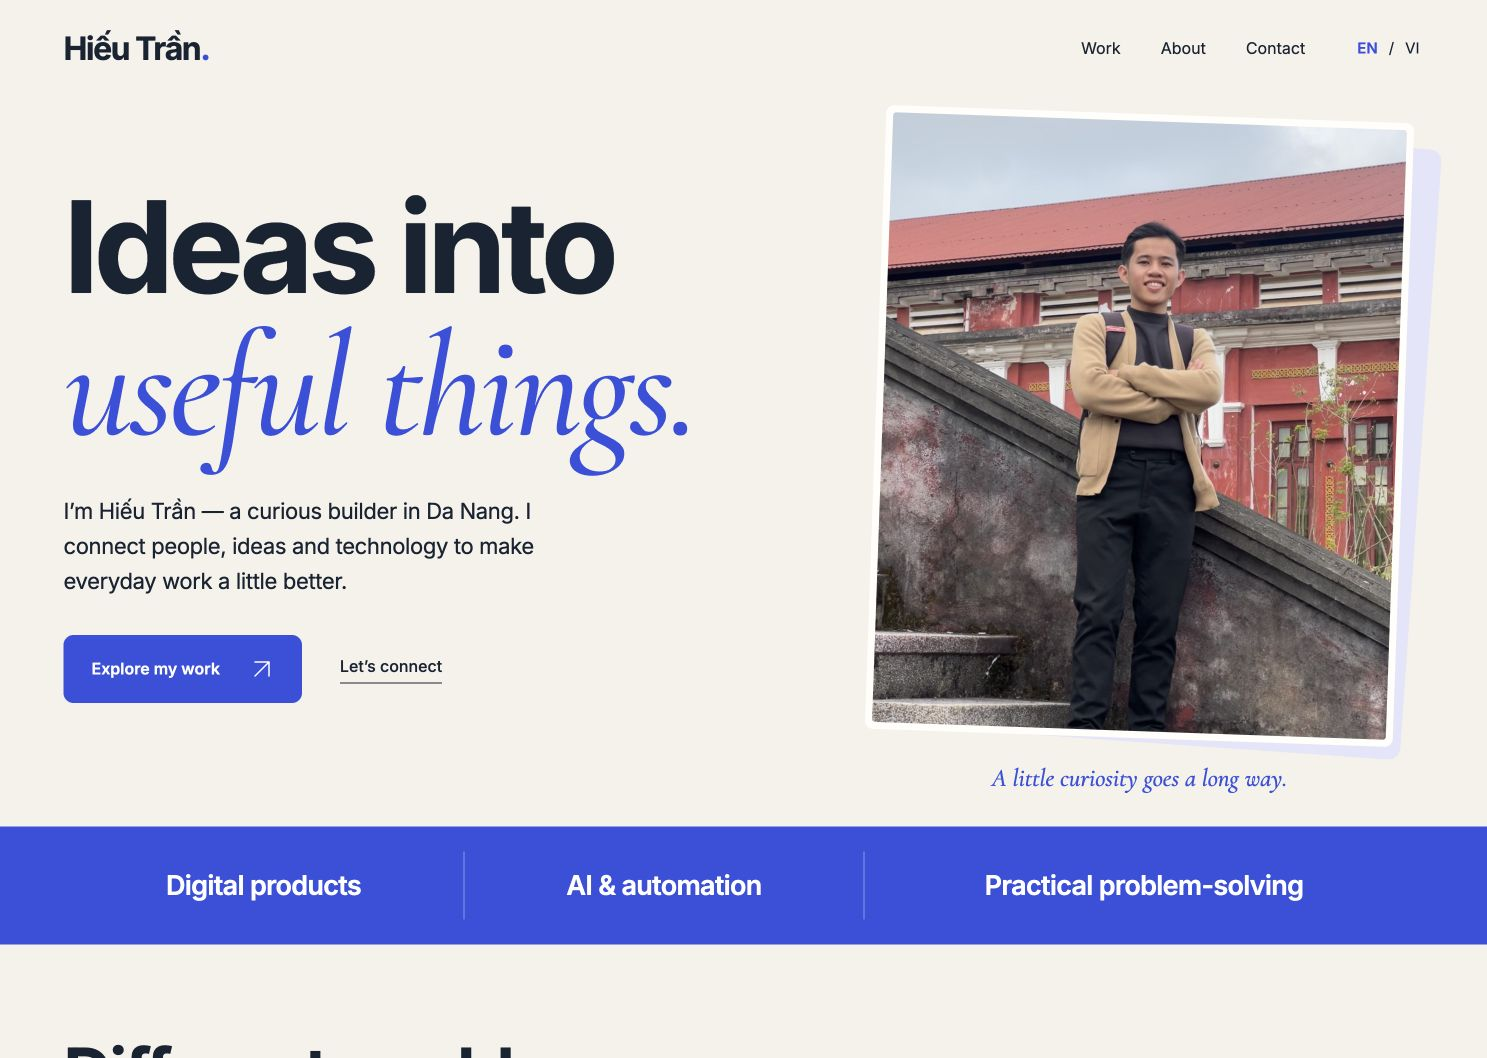
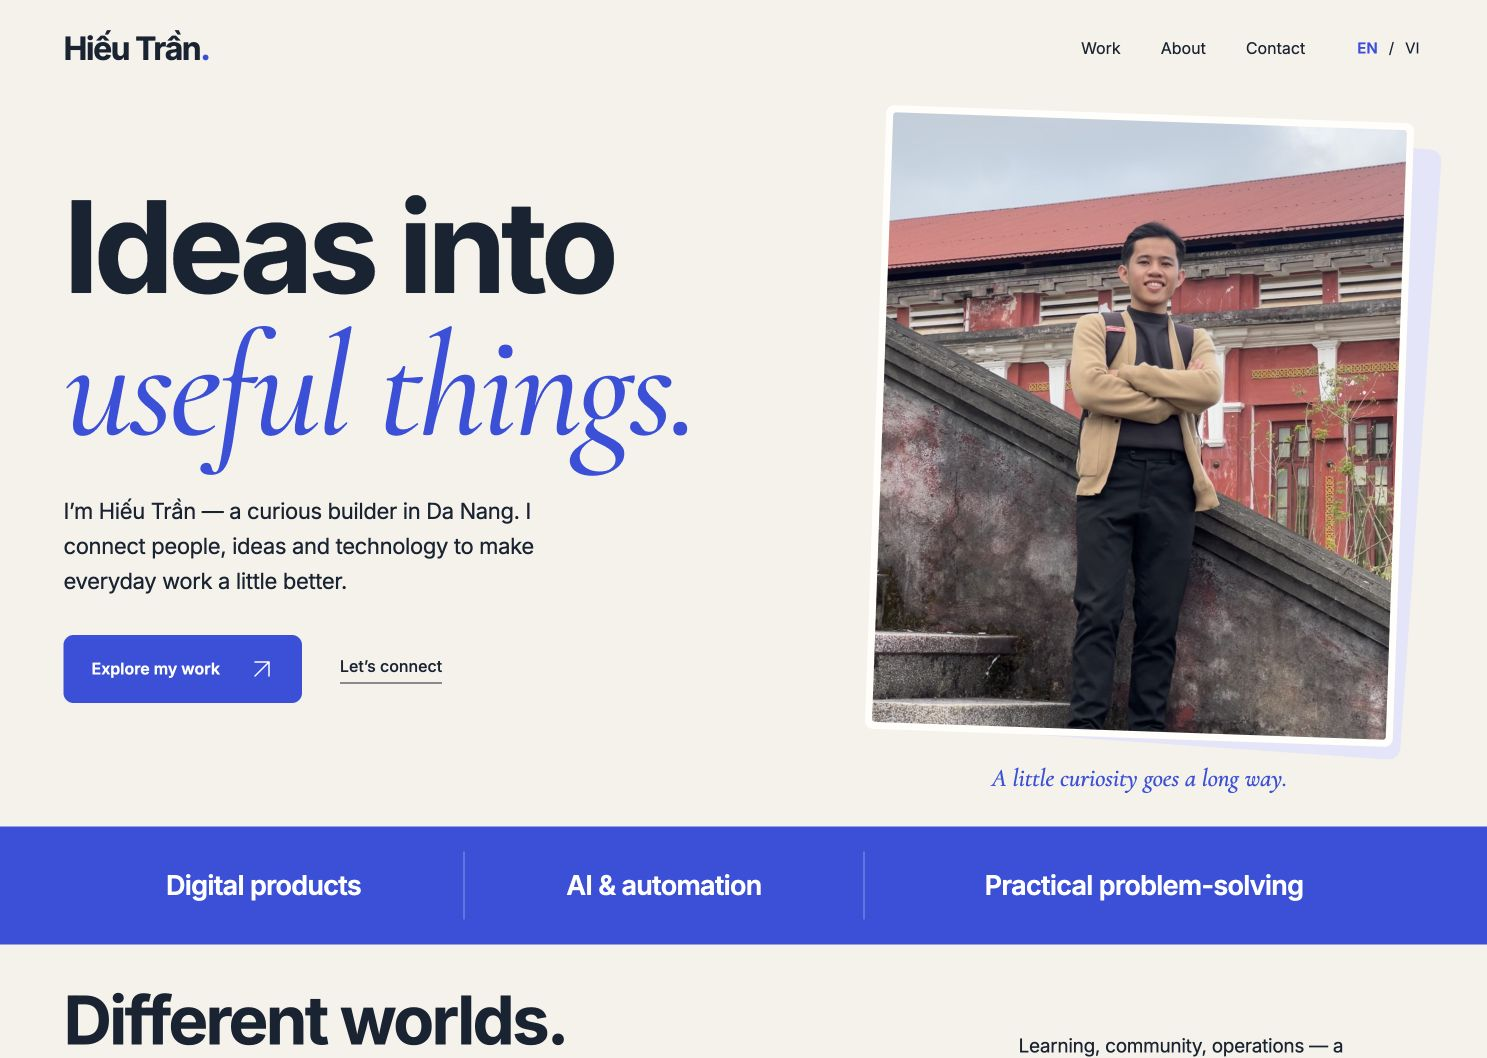
Refine project spacing and final social preview

Changed region(s): [[0.0309, 0.9357, 0.3712, 1.0], [0.6806, 0.9669, 0.8971, 0.9981]]

diff --git a/docs/assets/index-Efe_H-x0.css b/docs/assets/index-Efe_H-x0.css
@@ -1,0 +1,1 @@
+@font-face{font-family:Inter;font-style:normal;font-display:swap;font-weight:400;src:url(/assets/inter-latin-400-normal-C38fXH4l.woff2) format("woff2"),url(/assets/inter-latin-400-normal-CyCys3Eg.woff) format("woff")}@font-face{font-family:Inter;font-style:normal;font-display:swap;font-weight:500;src:url(/assets/inter-latin-500-normal-Cerq10X2.woff2) format("woff2"),url(/assets/inter-latin-500-normal-BL9OpVg8.woff) format("woff")}@font-face{font-family:Inter;font-style:normal;font-display:swap;font-weight:600;src:url(/assets/inter-latin-600-normal-LgqL8muc.woff2) format("woff2"),url(/assets/inter-latin-600-normal-CiBQ2DWP.woff) format("woff")}@font-face{font-family:Inter;font-style:normal;font-display:swap;font-weight:700;src:url(/assets/inter-latin-700-normal-Yt3aPRUw.woff2) format("woff2"),url(/assets/inter-latin-700-normal-BLAVimhd.woff) format("woff")}@font-face{font-family:Inter;font-style:normal;font-display:swap;font-weight:400;src:url(/assets/inter-vietnamese-400-normal-DMkecbls.woff2) format("woff2"),url(/assets/inter-vietnamese-400-normal-Bbgyi5SW.woff) format("woff")}@font-face{font-family:Inter;font-style:normal;font-display:swap;font-weight:500;src:url(/assets/inter-vietnamese-500-normal-DOriooB6.woff2) format("woff2"),url(/assets/inter-vietnamese-500-normal-mJboJaSs.woff) format("woff")}@font-face{font-family:Inter;font-style:normal;font-display:swap;font-weight:600;src:url(/assets/inter-vietnamese-600-normal-Cc8MFFhd.woff2) format("woff2"),url(/assets/inter-vietnamese-600-normal-BuLX-rYi.woff) format("woff")}@font-face{font-family:Inter;font-style:normal;font-display:swap;font-weight:700;src:url(/assets/inter-vietnamese-700-normal-DlLaEgI2.woff2) format("woff2"),url(/assets/inter-vietnamese-700-normal-BZaoP0fm.woff) format("woff")}@font-face{font-family:Cormorant Garamond;font-style:italic;font-display:swap;font-weight:500;src:url(/assets/cormorant-garamond-latin-500-italic-Y14P-dkT.woff2) format("woff2"),url(/assets/cormorant-garamond-latin-500-italic-DhNIfkTX.woff) format("woff")}@font-face{font-family:Cormorant Garamond;font-style:italic;font-display:swap;font-weight:500;src:url(/assets/cormorant-garamond-vietnamese-500-italic-D3igDnAQ.woff2) format("woff2"),url(/assets/cormorant-garamond-vietnamese-500-italic-C-296ow0.woff) format("woff")}:root{--paper:#f5f2eb;--ink:#182332;--blue:#3451df;--lavender:#e3e5fa;--peach:#edc7b1;--muted:#526071;--line:#cfd0d4;--serif:"Cormorant Garamond",Georgia,serif;font-family:Inter,Arial,sans-serif;color:var(--ink);background:var(--paper);font-synthesis:none}*{box-sizing:border-box}html{scroll-behavior:smooth;scroll-padding-top:32px}body{margin:0}a{color:inherit;text-decoration:none}button{font:inherit;color:inherit;cursor:pointer}a,button{touch-action:manipulation;-webkit-tap-highlight-color:transparent}a:focus-visible,button:focus-visible{outline:3px solid var(--blue);outline-offset:6px}button:focus-visible,.button:focus-visible{outline-offset:4px}.contact-section :focus-visible{outline-color:#fff}img{display:block;max-width:100%}h1,h2,h3,h4,p,figure{margin:0}em{font-family:var(--serif);font-weight:500}::selection{background:var(--lavender);color:var(--ink)}.wrap{width:min(1360px,calc(100% - 96px));margin-inline:auto}.svg-library{position:absolute;width:0;height:0;overflow:hidden}.arrow{width:24px;height:24px;fill:none;stroke:currentColor;stroke-width:1.5;stroke-linecap:round;stroke-linejoin:round;flex-shrink:0;transition:transform .25s}.sr-only{position:absolute;width:1px;height:1px;padding:0;overflow:hidden;clip:rect(0,0,0,0);white-space:nowrap;border:0}.skip-link{position:absolute;top:8px;left:8px;background:var(--ink);color:#fff;padding:14px 20px;z-index:20;transform:translateY(-160%)}.skip-link:focus{transform:none}.site-header{display:flex;align-items:center;gap:48px;height:104px}.wordmark{font-size:32px;font-weight:700;letter-spacing:-1.5px;white-space:nowrap}.wordmark span{color:var(--blue)}.site-header nav{display:flex;gap:40px;margin-left:auto;font-size:16px}.site-header nav a{padding-block:12px}.site-header nav a:hover,.site-footer a:hover{color:var(--blue)}.languages{display:flex;align-items:center;gap:7px;font-size:15px}.languages button{border:0;background:none;padding:12px 4px}.languages button[aria-pressed=true]{color:var(--blue);font-weight:600}.hero{display:grid;grid-template-columns:minmax(0,1.35fr) minmax(0,1fr);gap:72px;align-items:center;padding-top:30px;padding-bottom:46px}.hero-copy{padding-bottom:24px}h1{font-size:clamp(72px,7.5vw,114px);line-height:1.03;font-weight:700;letter-spacing:-5.5px}h1>span,h1>em{display:block}h1 em{color:var(--blue);font-size:1.2em;line-height:.92;letter-spacing:-4.5px;margin-top:6px;white-space:nowrap}.hero-intro{font-size:20px;line-height:1.65;max-width:540px;margin-top:38px;letter-spacing:-.35px}.hero-actions{display:flex;align-items:center;gap:38px;margin-top:36px}.button{display:inline-flex;justify-content:center;align-items:center;gap:30px;font-size:16px;font-weight:600;padding:21px 27px;min-height:62px;border:1px solid transparent;border-radius:10px;transition:transform .25s,background .25s}.button-primary{background:var(--blue);color:#fff}.button-primary:hover{background:#273cb2;transform:translateY(-3px)}.button:hover .arrow,.text-link:hover .arrow,.project-row:hover .arrow{transform:translate(3px,-3px)}.text-link{display:inline-flex;align-items:center;gap:16px;font-size:16px;font-weight:500;border:0;border-bottom:1px solid currentColor;padding:0 0 4px;background:none;line-height:1.5}.text-link:hover{color:var(--blue)}.portrait{position:relative;margin-right:20px}.portrait:before{content:"";position:absolute;inset:17px -18px 52px 15px;background:var(--lavender);border-radius:12px;transform:rotate(4deg)}.portrait-frame{position:relative;padding:7px;background:#fffefa;border-radius:8px;transform:rotate(2deg);transition:transform .45s}.portrait:hover .portrait-frame{transform:rotate(0)}.portrait img{width:100%;height:clamp(470px,42.5vw,620px);object-fit:cover;object-position:center 36%;border-radius:3px}.portrait figcaption{position:relative;font-family:var(--serif);font-style:italic;font-size:25px;color:var(--blue);text-align:center;line-height:1.3;margin-top:24px}.capability-band{background:var(--blue);color:#fff}.capability-band>.wrap{display:grid;grid-template-columns:1fr 1fr 1.4fr;align-items:stretch;padding-block:25px}.capability-band span{font-size:clamp(17px,1.85vw,27px);font-weight:600;letter-spacing:-.7px;text-align:center;padding:15px 25px;display:flex;align-items:center;justify-content:center;line-height:1.4}.capability-band span+span{border-left:1px solid #ffffff69}.work-section{padding-block:92px 0}.section-heading{display:flex;align-items:center;justify-content:space-between;gap:64px;margin-bottom:35px}.section-heading h2{font-size:clamp(40px,4.6vw,67px);font-weight:700;line-height:1.06;letter-spacing:-2.7px}.section-heading h2>span,.section-heading h2>em{display:block}.section-heading h2 em{font-size:1.23em;line-height:1;color:var(--blue);letter-spacing:-1.8px}.section-heading>p{max-width:405px;font-size:19px;line-height:1.6;letter-spacing:-.3px}.featured-projects{display:grid;grid-template-columns:1.32fr 1fr;gap:24px}.project-feature{border-radius:24px;padding:26px;overflow:hidden;display:flex;flex-direction:column;min-width:0}.sign-feature{background:var(--lavender)}.project-image{display:block;border-radius:15px;overflow:hidden;background:#f6f6fd;box-shadow:0 8px 26px #18233208}.project-image img{width:100%;height:auto;transition:transform .4s}.project-image:hover img{transform:scale(1.015)}.feature-copy{padding-top:24px;margin-top:auto}.feature-copy h3{font-size:27px;letter-spacing:-1px;font-weight:700}.feature-copy>p{font-size:15px;line-height:1.65;margin-top:6px}.feature-footer{display:flex;align-items:center;justify-content:space-between;gap:18px;margin-top:19px}.project-kind{font-size:10px;font-weight:500;letter-spacing:.35px;text-transform:uppercase;color:var(--blue)}.feature-footer .text-link{border:0;font-size:14px;gap:11px;color:var(--blue);padding:0;white-space:nowrap}.feature-footer .arrow{width:21px;height:21px}.roberp-feature{background:var(--ink);color:#fffefa}.roberp-feature .project-kind,.roberp-feature .text-link{color:var(--peach)}.roberp-feature .text-link:hover{color:#fff}.purpose-map{display:flex;flex-direction:column;justify-content:space-evenly;gap:28px;min-height:290px;height:100%;padding:12px 24px 32px;color:var(--peach)}.purpose-map>div{display:flex;align-items:center;gap:22px;position:relative;font-size:clamp(22px,2.1vw,31px);font-weight:600;letter-spacing:-.7px;line-height:1.3}.purpose-map>div>span:first-child{min-width:145px}.map-line{height:1px;background:currentColor;flex:1;position:relative}.map-node{border:1.5px solid currentColor;width:18px;height:18px;border-radius:50%;flex-shrink:0;position:relative}.purpose-map>div:not(:last-child) .map-node:after{content:"";position:absolute;left:7px;top:22px;height:62px;border-left:1px dashed #edc7b170}.project-list{margin-top:24px}.project-row{display:grid;grid-template-columns:1.1fr 1.6fr 24px;gap:35px;align-items:center;padding:25px 28px;border-top:1px solid var(--line);transition:background .2s,color .2s}.project-row:last-child{border-bottom:1px solid var(--line)}.project-row:hover{background:#e3e5fa66;color:var(--blue)}.project-row h3{font-size:24px;font-weight:600;letter-spacing:-.9px}.project-row p{font-size:15px;line-height:1.6}.project-row .arrow{color:var(--blue)}.work-note{display:flex;align-items:baseline;justify-content:center;flex-wrap:wrap;gap:12px;font-size:14px;line-height:1.7;margin-top:27px;color:var(--muted)}.work-note em{color:var(--ink);font-size:22px}.about-section{padding-block:115px 65px}.section-label{font-size:21px;color:var(--blue);font-weight:500;margin-bottom:42px}.about-intro{display:grid;grid-template-columns:1.15fr 1fr;gap:76px;align-items:start}.about-intro h3{font-size:clamp(38px,4.4vw,62px);line-height:1.15;letter-spacing:-2px}.about-intro h3 span,.about-intro h3 em{display:block}.about-intro h3 em{font-size:1.15em;font-weight:500;color:var(--blue);letter-spacing:-1.5px;line-height:1.05;margin-top:4px}.about-intro p{font-size:18px;line-height:1.75;letter-spacing:-.2px}.about-intro p+p{margin-top:23px}.approach-list{list-style:none;margin:75px 0 48px;padding:0;display:grid;grid-template-columns:repeat(3,1fr)}.approach-list li{padding:0 40px}.approach-list li:first-child{padding-left:0}.approach-list li+li{border-left:1px solid #d0d5ed}.approach-list li:last-child{padding-right:0}.approach-mark{display:flex;align-items:center;justify-content:space-between;gap:25px;margin-bottom:20px}.approach-mark>span{font-size:88px;line-height:1;font-weight:600;color:var(--blue);letter-spacing:-4px}.process-icon{width:90px;height:90px;fill:none;stroke:var(--ink);stroke-width:1.15;stroke-linecap:round;stroke-linejoin:round;flex-shrink:0;background:var(--lavender);border-radius:50%;padding:10px}.approach-list li:nth-child(2) .process-icon{background:#edc7b159;border-radius:12px}.approach-list li:nth-child(3) .process-icon{background:#dbe6db80}.approach-list h4{font-size:27px;font-weight:600;letter-spacing:-1px;line-height:1.3;margin-bottom:10px}.approach-list p{font-size:17px;line-height:1.65;max-width:270px}.experience-list{margin:0}.experience-list>div{display:flex;align-items:center;gap:32px;border-top:1px solid #d0d5ed;padding:25px 0}.experience-list dt{width:65px;height:65px;display:flex;align-items:center;justify-content:center;border-radius:50%;background:var(--lavender);flex-shrink:0}.experience-list dt svg{width:32px;height:32px;stroke:var(--ink);stroke-width:1.2;stroke-linejoin:round;stroke-linecap:round;fill:none}.experience-list dd{margin:0}.experience-list strong{font-size:23px;font-weight:600;line-height:1.6;letter-spacing:-.6px;display:block}.experience-list dd span{display:block;font-size:16px;line-height:1.6;margin-top:1px}.contact-section{background:var(--blue);color:#fff}.contact-inner{display:flex;justify-content:space-between;align-items:center;gap:70px;padding-block:60px 47px}.contact-inner h2{font-size:clamp(38px,3.9vw,57px);line-height:1.12;font-weight:600;letter-spacing:-1.7px}.contact-inner h2 span,.contact-inner h2 em{display:block}.contact-inner h2 em{font-size:1.2em;line-height:1.04;letter-spacing:-1.2px}.contact-inner p{font-size:18px;line-height:1.7;margin-top:16px;color:#fffffff2}.contact-actions{width:320px;flex-shrink:0}.button-light{background:var(--paper);color:var(--ink);width:100%;justify-content:space-between}.button-light:hover{background:#fff;transform:translateY(-2px)}.contact-secondary{display:flex;align-items:center;justify-content:space-around;gap:20px;margin-top:21px}.contact-section .text-link:hover{color:#fff;border-bottom-width:2px}.copy-status{display:block;font-size:12px;line-height:1.5;min-height:18px;margin-top:11px;text-align:center;overflow-wrap:anywhere}.site-footer{display:flex;align-items:center;justify-content:space-between;gap:40px;min-height:128px}.site-footer p{font-size:14px}.site-footer>div{display:flex;gap:34px;font-size:14px}.site-footer>div a{border-bottom:1px solid currentColor;padding-bottom:3px}dialog{background:var(--paper);color:var(--ink);border:0;border-radius:24px;width:min(800px,calc(100% - 32px));max-height:86dvh;padding:28px 40px 38px;overscroll-behavior:contain;box-shadow:0 24px 90px #0003}dialog::backdrop{background:#101725a8;-webkit-backdrop-filter:blur(5px);backdrop-filter:blur(5px)}.dialog-top{display:flex;align-items:center;justify-content:space-between;gap:25px;margin-bottom:12px}.eyebrow{font-size:11px;text-transform:uppercase;letter-spacing:1px;line-height:1.7;color:var(--muted)}.close-dialog{border:0;width:44px;height:44px;border-radius:50%;background:var(--lavender);font-size:28px;line-height:1}.close-dialog:hover{background:var(--blue);color:#fff}#dialog-title{font-size:42px;font-weight:600;letter-spacing:-1.8px;margin-bottom:18px;line-height:1.1}.dialog-lede{font-size:19px;line-height:1.65;margin-bottom:26px}.dialog-section{border-top:1px solid var(--line);padding-top:20px;margin-top:22px}.dialog-section h3{font-size:15px;margin-bottom:10px;font-weight:600}.dialog-section p{font-size:14px;line-height:1.8;color:var(--muted)}.architecture{display:flex;align-items:center;flex-wrap:wrap;gap:10px;padding:0;list-style:none;margin:22px 0 0}.architecture li{padding:9px 12px;border:1px solid #b8c2f6;border-radius:6px;font-size:11px;line-height:1.6}.architecture li+li:before{content:"→";margin-right:9px;color:var(--blue)}.dialog-tech{font-size:12px;line-height:1.8;color:var(--muted);margin-top:17px}.dialog-limit{background:var(--lavender);padding:18px 20px;border-radius:10px;margin-top:22px;font-size:13px;line-height:1.8}.dialog-footer{margin-top:24px}@media(min-width:1101px){.site-header{height:96px}.hero{padding-top:18px;padding-bottom:32px}h1{font-size:clamp(84px,8.55vw,128px)}h1 em{font-size:1.17em}.hero-intro{font-size:22px;line-height:1.6}.portrait img{height:clamp(480px,41.1vw,610px)}}@media(min-width:1600px){.hero{padding-top:40px;padding-bottom:50px}.portrait img{height:640px}}@media(max-width:1100px){.wrap{width:calc(100% - 72px)}.site-header{height:94px;gap:30px}.hero{gap:44px;padding-top:34px}h1{font-size:7.5vw;letter-spacing:-3.5px}h1 em{letter-spacing:-2.5px}.hero-intro{font-size:17px;margin-top:29px}.hero-actions{gap:25px}.button{font-size:14px;padding:18px 20px;gap:22px}.text-link{font-size:14px}.portrait img{height:460px}.portrait figcaption{font-size:21px}.section-heading{gap:36px}.section-heading>p{font-size:16px;max-width:330px}.project-feature{padding:22px}.feature-footer{align-items:flex-start;flex-direction:column;gap:11px}.purpose-map{padding-inline:7px;min-height:230px;gap:28px}.purpose-map>div{gap:14px;font-size:24px}.purpose-map>div>span:first-child{min-width:116px}.purpose-map>div:not(:last-child) .map-node:after{height:43px}.about-intro{gap:48px}.about-intro p{font-size:16px}.approach-list li{padding-inline:30px}.approach-mark>span{font-size:76px}.process-icon{width:76px;height:76px}.approach-list p{font-size:16px}.contact-inner{gap:38px}.contact-actions{width:280px}.contact-inner p{font-size:16px}.site-footer{gap:24px}}@media(max-width:760px){.wrap{width:calc(100% - 44px)}.site-header{height:84px;gap:20px}.wordmark{font-size:24px;letter-spacing:-1px}.site-header nav{font-size:12px;gap:18px}.languages{font-size:12px;gap:3px}.languages button{padding:12px 2px}.hero{grid-template-columns:1fr;gap:40px;padding-top:26px;padding-bottom:33px}.hero-copy{padding-bottom:0}h1{font-size:clamp(48px,11vw,76px);letter-spacing:-2.6px}h1 em{font-size:1.27em;letter-spacing:-2px}.hero-intro{font-size:16px;line-height:1.8;margin-top:24px;max-width:520px}.hero-actions{margin-top:25px;gap:27px}.button{font-size:13px;padding:17px 19px;min-height:54px;gap:18px}.button .arrow{width:20px;height:20px}.text-link{font-size:13px}.portrait{max-width:450px;width:calc(100% - 16px);margin-inline:auto}.portrait img{height:auto;aspect-ratio:4/4.7;object-position:center 24%}.portrait:before{inset:13px -10px 41px 12px}.portrait-frame{padding:5px}.portrait figcaption{font-size:22px;margin-top:20px}.capability-band>.wrap{width:100%;grid-template-columns:1fr 1fr 1.2fr;padding-block:14px}.capability-band span{font-size:13px;letter-spacing:-.35px;padding:8px 12px;line-height:1.5}.work-section{padding-top:53px}.section-heading{display:block;margin-bottom:26px}.section-heading h2{font-size:39px;letter-spacing:-1.8px}.section-heading h2 em{font-size:1.2em;letter-spacing:-1.3px}.section-heading>p{font-size:15px;line-height:1.7;max-width:410px;margin-top:20px}.featured-projects{grid-template-columns:1fr;gap:22px}.project-feature{padding:20px;border-radius:20px}.feature-copy{padding-top:20px}.feature-copy h3{font-size:25px}.feature-copy>p{font-size:14px}.feature-footer{flex-direction:row;align-items:center;flex-wrap:wrap;gap:16px}.project-kind{font-size:9px}.feature-footer .text-link{font-size:12px}.purpose-map{height:auto;min-height:250px;padding:15px 12px;gap:38px}.purpose-map>div{font-size:27px;gap:20px}.purpose-map>div>span:first-child{min-width:145px}.purpose-map>div:not(:last-child) .map-node:after{height:49px}.project-list{margin-top:27px}.project-row{grid-template-columns:1fr 20px;gap:8px 20px;padding:21px 4px}.project-row h3{font-size:21px;letter-spacing:-.7px}.project-row p{font-size:13px;grid-column:1;grid-row:2}.project-row .arrow{width:22px;height:22px;grid-column:2;grid-row:1/3}.work-note{display:block;font-size:12px;margin-top:24px}.work-note em{display:block;font-size:20px;margin-bottom:3px}.about-section{padding-block:65px 38px}.section-label{font-size:17px;margin-bottom:27px}.about-intro{grid-template-columns:1fr;gap:26px}.about-intro h3{font-size:39px;letter-spacing:-1.6px}.about-intro h3 em{font-size:1.18em}.about-intro p{font-size:15px;line-height:1.8}.about-intro p+p{margin-top:17px}.approach-list{grid-template-columns:1fr;margin:32px 0 28px;gap:0}.approach-list li,.approach-list li:first-child,.approach-list li:last-child{padding:23px 0;border:0;border-top:1px solid #d0d5ed;display:grid;grid-template-columns:112px 1fr;column-gap:25px}.approach-mark{grid-row:1/3;flex-direction:row;gap:12px;margin:0;align-self:center}.approach-mark>span{font-size:42px;letter-spacing:-2px}.process-icon{width:51px;height:51px;padding:6px}.approach-list h4{font-size:23px;letter-spacing:-.6px;margin-bottom:5px}.approach-list p{font-size:14px;max-width:none}.experience-list>div{gap:20px;padding:22px 0}.experience-list dt{width:53px;height:53px}.experience-list dt svg{width:28px;height:28px}.experience-list strong{font-size:19px;letter-spacing:-.5px}.experience-list dd span{font-size:12px;margin-top:4px}.contact-inner{display:block;padding-block:40px 27px}.contact-inner h2{font-size:34px;letter-spacing:-1.3px}.contact-inner h2 em{font-size:1.2em}.contact-inner p{font-size:14px;margin-top:18px}.contact-actions{width:100%;max-width:360px;margin-top:28px}.contact-secondary{justify-content:space-between;padding-inline:12px}.button-light{justify-content:space-between;font-size:15px}.copy-status{text-align:left;padding-inline:12px}.site-footer{min-height:140px;flex-wrap:wrap;gap:20px;align-content:center}.site-footer p{font-size:12px;margin-left:auto}.site-footer>div{width:100%;font-size:13px;gap:30px}dialog{padding:22px 24px 30px;border-radius:18px;width:calc(100% - 24px);max-height:89dvh}#dialog-title{font-size:32px;letter-spacing:-1px}.dialog-lede{font-size:16px}.dialog-section p{font-size:13px}.dialog-top{gap:15px}.eyebrow{font-size:9px}.close-dialog{width:40px;height:40px;flex-shrink:0}.dialog-limit{font-size:12px;padding:15px}.architecture li{font-size:10px}}@media(max-width:365px){.site-header{gap:10px}.site-header nav{gap:10px;font-size:11px}.wordmark{font-size:20px}.languages{font-size:11px}.hero-actions{gap:18px}.button{padding-inline:15px;font-size:12px}.text-link{font-size:12px}.capability-band span{font-size:11px;padding-inline:8px}.section-heading h2,.about-intro h3{font-size:34px}.approach-list li,.approach-list li:first-child,.approach-list li:last-child{grid-template-columns:90px 1fr;column-gap:20px}.approach-mark>span{font-size:36px}.process-icon{width:42px;height:42px}.approach-mark{gap:7px}.purpose-map>div{font-size:23px}.purpose-map>div>span:first-child{min-width:125px}.contact-inner h2{font-size:29px}.experience-list strong{font-size:17px}}@media(max-width:760px){.site-header{gap:12px}.site-header nav{gap:16px;font-size:11px}.site-header nav a{white-space:nowrap}}@media(max-width:365px){.site-header{display:grid;grid-template-columns:1fr auto;gap:0;height:104px;padding-block:12px}.site-header .wordmark{font-size:24px}.site-header nav{grid-column:1/-1;grid-row:2;justify-content:space-between;margin-left:0;font-size:12px}.languages{grid-column:2;grid-row:1;font-size:12px}}.hero-copy{min-width:0}.button{transition:transform .25s}@media(min-width:761px){.work-section{padding-top:40px}}@media(min-width:761px){.about-intro h3{font-size:clamp(48px,5.9vw,72px)}}@media(min-width:761px)and (max-width:1100px){.about-intro p{font-size:18px}}@media(max-width:365px){h1{font-size:44px}}@media(prefers-reduced-motion:reduce){html{scroll-behavior:auto}*,*:before,*:after{animation:none!important;transition:none!important}}

diff --git a/src/style.css b/src/style.css
@@ -25,6 +25,7 @@ dialog{background:var(--paper);color:var(--ink);border:0;border-radius:24px;widt
 @media(max-width:760px){.site-header{gap:12px}.site-header nav{gap:16px;font-size:11px}.site-header nav a{white-space:nowrap}}
 @media(max-width:365px){.site-header{display:grid;grid-template-columns:1fr auto;gap:0;height:104px;padding-block:12px}.site-header .wordmark{font-size:24px}.site-header nav{grid-column:1/-1;grid-row:2;justify-content:space-between;margin-left:0;font-size:12px}.languages{grid-column:2;grid-row:1;font-size:12px}}
 .hero-copy{min-width:0}.button{transition:transform .25s}
+@media(min-width:761px){.work-section{padding-top:40px}}
 @media(min-width:761px){.about-intro h3{font-size:clamp(48px,5.9vw,72px)}}
 @media(min-width:761px) and (max-width:1100px){.about-intro p{font-size:18px}}
 @media(max-width:365px){h1{font-size:44px}}

diff --git a/docs/index.html b/docs/index.html
@@ -14,8 +14,8 @@
     <meta name="twitter:card" content="summary_large_image" />
     <link rel="canonical" href="https://minhhieu04.github.io/" />
     <link rel="icon" href="/favicon.svg" type="image/svg+xml" />
-    <script type="module" crossorigin src="/assets/index-BweU8MrY.js"></script>
-    <link rel="stylesheet" crossorigin href="/assets/index-BEE2SrM3.css">
+    <script type="module" crossorigin src="/assets/index-CnKiuiLg.js"></script>
+    <link rel="stylesheet" crossorigin href="/assets/index-Efe_H-x0.css">
   </head>
   <body>
     <svg class="svg-library" xmlns="http://www.w3.org/2000/svg" aria-hidden="true"><defs>
